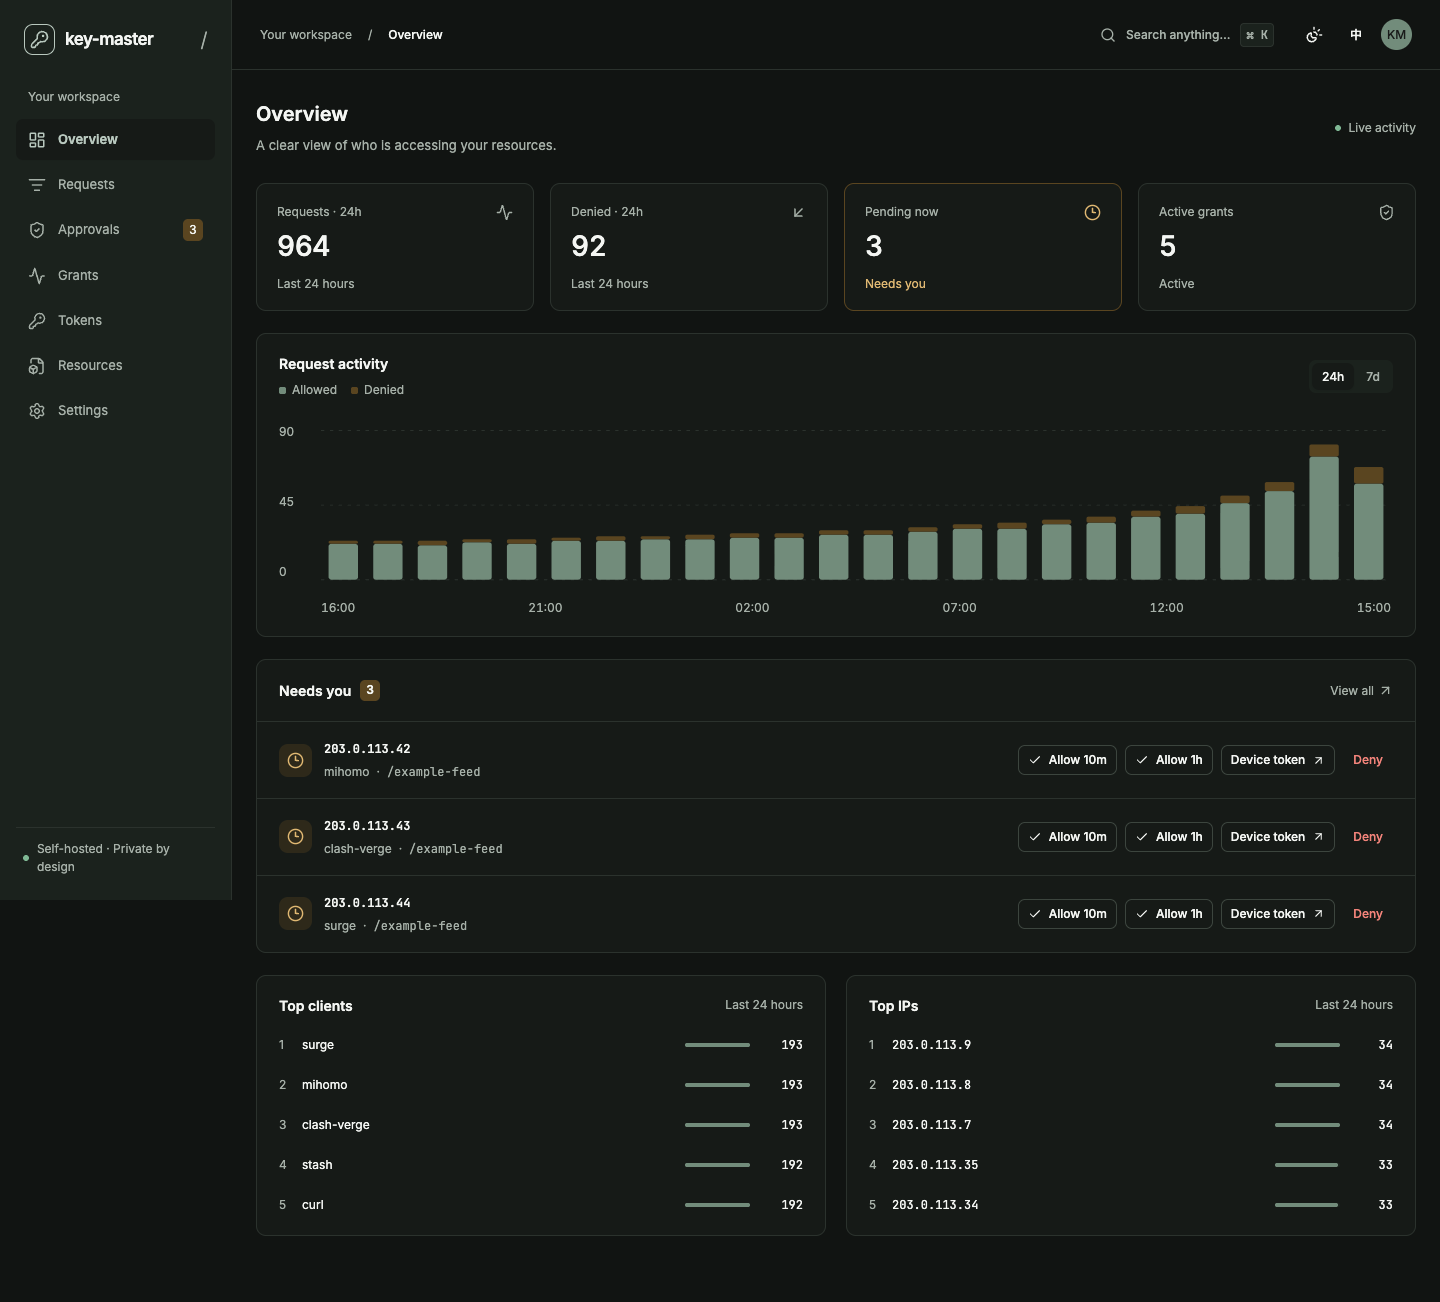
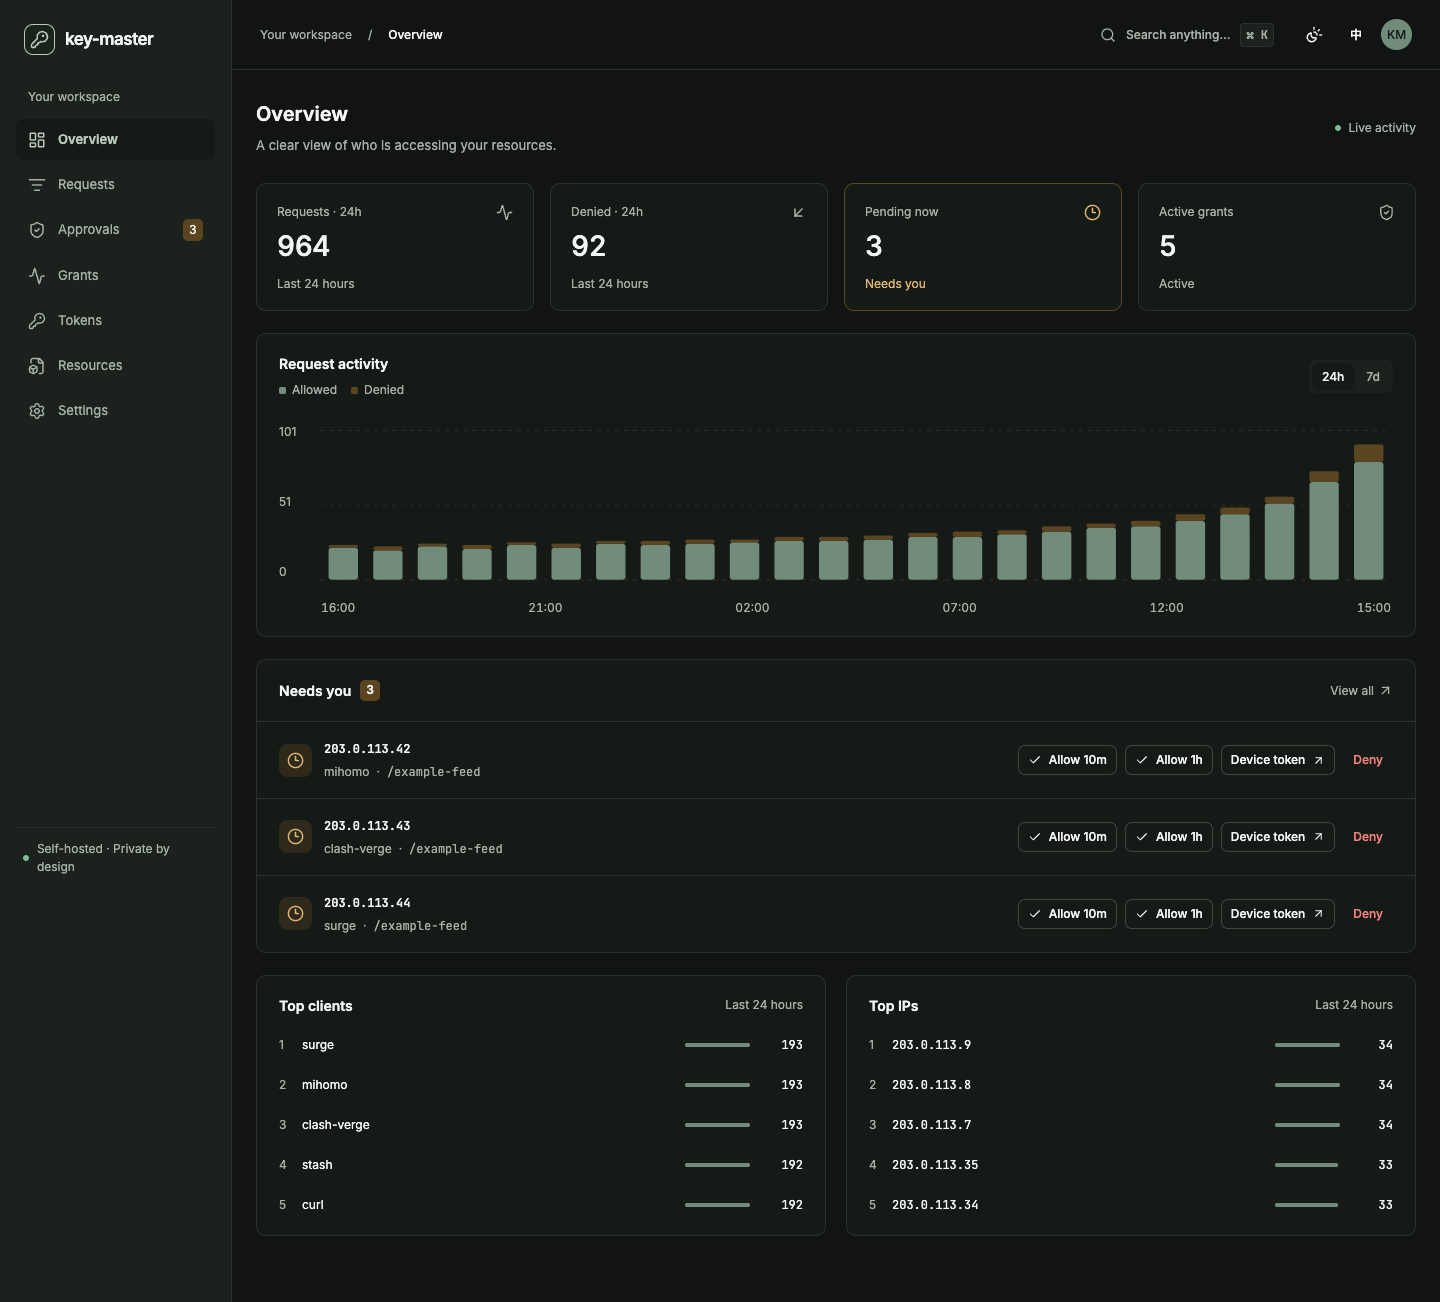
docs: record admin fixes acceptance and refresh screenshots

diff --git a/docs/ACCEPTANCE.md b/docs/ACCEPTANCE.md
@@ -1,3 +1,73 @@
+# Admin fixes acceptance — 2026-09-27
+
+Verified on `feat/admin`; baseline `768eab2`. Changes are committed locally with Codex co-author signatures. No push performed.
+
+| Check | Actual result |
+| --- | --- |
+| `pnpm -r test && pnpm -r build && pnpm lint && pnpm test:ui` | Exit 0 |
+| Unit tests | 175 core + 158 server = 333 passed; admin strict typecheck passed |
+| Builds | Core, server and admin passed |
+| Lint | Passed; zero errors/warnings; one pre-existing Biome configuration deprecation info |
+| Browser tests | 10 passed (15.8s), including bright/dark long-page scrolling, desktop/mobile brand, two browser timezones and en/zh formatting |
+| Startup/restart smoke | Real production entrypoint: health 200, imported token 200, then 403 after revocation and restart; one token row; lifecycle timestamps preserved |
+| Token coverage | Strict hash-only config, duplicate IDs, expiry formats/bounds, scope, optional pepper, idempotent upsert, preserved revocation, API visibility without hash leakage, nginx token correlation |
+| Time coverage | Default UTC, IANA validation, language, ISO hover values, epoch zero, date rollover, DST and legacy persisted settings |
+| Requested recursive identifier scan | No output; exit 1 (no matches), including ignored files; generated logs normalize the workspace path |
+| curl preview | `/healthz` 200; browser `/example-rules` 403 |
+| Screenshot review | All eight requested screenshots opened individually and compared with the baseline; no missing features or layout regressions |
+
+UI gate: **VERDICT: PASS**. Detailed layout, contrast, behavior and baseline evidence is in [ui-acceptance.md](ui-acceptance.md).
+
+The sidebar uses sticky positioning and `100dvh`; the surrounding sidebar canvas also covers the full document in long-page captures. The brand slash was decorative and is removed. Admin timestamps follow the browser zone and UI language; server denial pages and their previews label `notice.timezone` (default UTC). Config token upserts preserve revocation, creation and usage history. nginx authorization remains independent of SQLite revocation/expiry, as documented in [nginx.md](nginx.md).
+
+Screenshots:
+
+- Overview: [1440 light](screenshots/overview-1440-light.png), [1440 dark](screenshots/overview-1440-dark.png), [390 light](screenshots/overview-390-light.png), [390 dark](screenshots/overview-390-dark.png).
+- Denied: [1440 light](screenshots/denied-1440-light.png), [1440 dark](screenshots/denied-1440-dark.png), [390 light](screenshots/denied-390-light.png), [390 dark](screenshots/denied-390-dark.png).
+
+## Changed files for this follow-up
+
+- `CLAUDE.md`
+- `README.md`
+- `SPEC.md`
+- `apps/admin/src/components.tsx`
+- `apps/admin/src/main.tsx`
+- `apps/admin/src/manage.tsx`
+- `apps/admin/src/overview.tsx`
+- `apps/admin/src/requests.tsx`
+- `apps/admin/src/settings.tsx`
+- `apps/admin/src/style.css`
+- `apps/admin/src/types.ts`
+- `apps/server/src/admin.test.ts`
+- `apps/server/src/admin.ts`
+- `apps/server/src/app.ts`
+- `apps/server/src/config.ts`
+- `apps/server/src/db.ts`
+- `apps/server/src/index.ts`
+- `apps/server/src/ingest.ts`
+- `apps/server/src/server.test.ts`
+- `apps/server/src/tokens.test.ts`
+- `config.example.yaml`
+- `docs/ACCEPTANCE.md`
+- `docs/admin-fixes.json`
+- `docs/nginx.md`
+- `docs/screenshots/denied-1440-dark.png`
+- `docs/screenshots/denied-1440-light.png`
+- `docs/screenshots/denied-390-dark.png`
+- `docs/screenshots/denied-390-light.png`
+- `docs/screenshots/overview-1440-dark.png`
+- `docs/screenshots/overview-1440-light.png`
+- `docs/screenshots/overview-390-dark.png`
+- `docs/screenshots/overview-390-light.png`
+- `docs/ui-acceptance.md`
+- `packages/core/src/index.test.ts`
+- `packages/core/src/index.ts`
+- `packages/core/src/time.test.ts`
+- `packages/core/src/time.ts`
+- `tests/ui/admin.spec.ts`
+
+---
+
 # Phase-two acceptance
 
 Verified on 2026-09-27 on branch `feat/admin`, created from `feat/phase-one`. No push performed.

diff --git a/docs/ui-acceptance.md b/docs/ui-acceptance.md
@@ -1,3 +1,29 @@
+# Admin fixes UI acceptance — 2026-09-27
+
+VERDICT: PASS
+
+Built preview: `http://localhost:4175`; automated suite: `http://localhost:4174`.
+Baseline: commit `768eab2`, copied to ignored `.verification/baseline/` before editing.
+
+| Check | Observed result |
+| --- | --- |
+| Sticky sidebar | Light/dark scroll tests pass; 900 px manual viewport, scrollY 402, sidebar top 0 and height 900. Full-page background reaches the document bottom. |
+| Brand | Exact `key-master` text on desktop and mobile navigation; decorative slash removed. |
+| Typography and controls | Eight requested screenshots individually opened: readable, no clipped controls or horizontal overflow. Mobile chart retains three time labels. |
+| Dark contrast | Rendered foreground/background checks report zero failures below 4.5:1 in all four viewport/theme runs. |
+| Dialogs and zoom | Login/search remain dialogs; workflow tests pass; viewport permits zoom. Request drawer timestamp fits on mobile. |
+| Time | Singapore/New York browser contexts and en/zh UI changes pass; ISO title values remain intact. Denial displays configured zone; default UTC shown in screenshots. |
+| Baseline diff | Same navigation, stats, chart, approval actions and rankings; sidebar canvas extends, slash disappears, denial time becomes localized with zone label. No missing features found. |
+| Public entertainment notice | Not applicable to this private admin console. |
+
+Committed screenshots: `docs/screenshots/{overview,denied}-{1440,390}-{light,dark}.png` (eight).
+Independent headless agent-browser viewport screenshots: `.ui-acceptance/2026-09-27/fixes/` with the same eight names, plus `overview-scrolled-dark.png`.
+Playwright also generated the complete 36-view gate under `.ui-acceptance/phase-two/`; only the eight requested repository screenshots are refreshed in this change.
+Agent-browser login, theme menu, system color schemes and long-page scrolling were exercised against the real preview server.
+The full automated workflow suite passed **10 tests (15.8s)**; health and browser-denial curl checks returned **200** and **403**.
+
+---
+
 # Phase-one UI acceptance
 
 VERDICT: PASS

diff --git a/CLAUDE.md b/CLAUDE.md
@@ -4,7 +4,8 @@ Follow AGENTS.md and SPEC.md. Visual contract: docs/DESIGN.md. Product context: 
 
 ## UI 基准
 
-Baseline: `feat/phase-one`, the static admin placeholder and server denial page.
+Current comparison baseline: `768eab2` on `feat/admin`, with its committed Overview and denied screenshots.
+Original historical baseline: `feat/phase-one`, the static admin placeholder and server denial page.
 Local baseline captures: `.ui-acceptance/2026-09-27/{admin,denied}-{desktop,mobile,dark}.png`.
-Phase-two candidate: `docs/screenshots/`; comparison and behavior evidence are recorded in `docs/ACCEPTANCE.md`.
+Admin-fixes candidate: `docs/screenshots/`; comparison and behavior evidence are recorded in `docs/ACCEPTANCE.md`.
 There is no configured production deployment or remote baseline URL.
